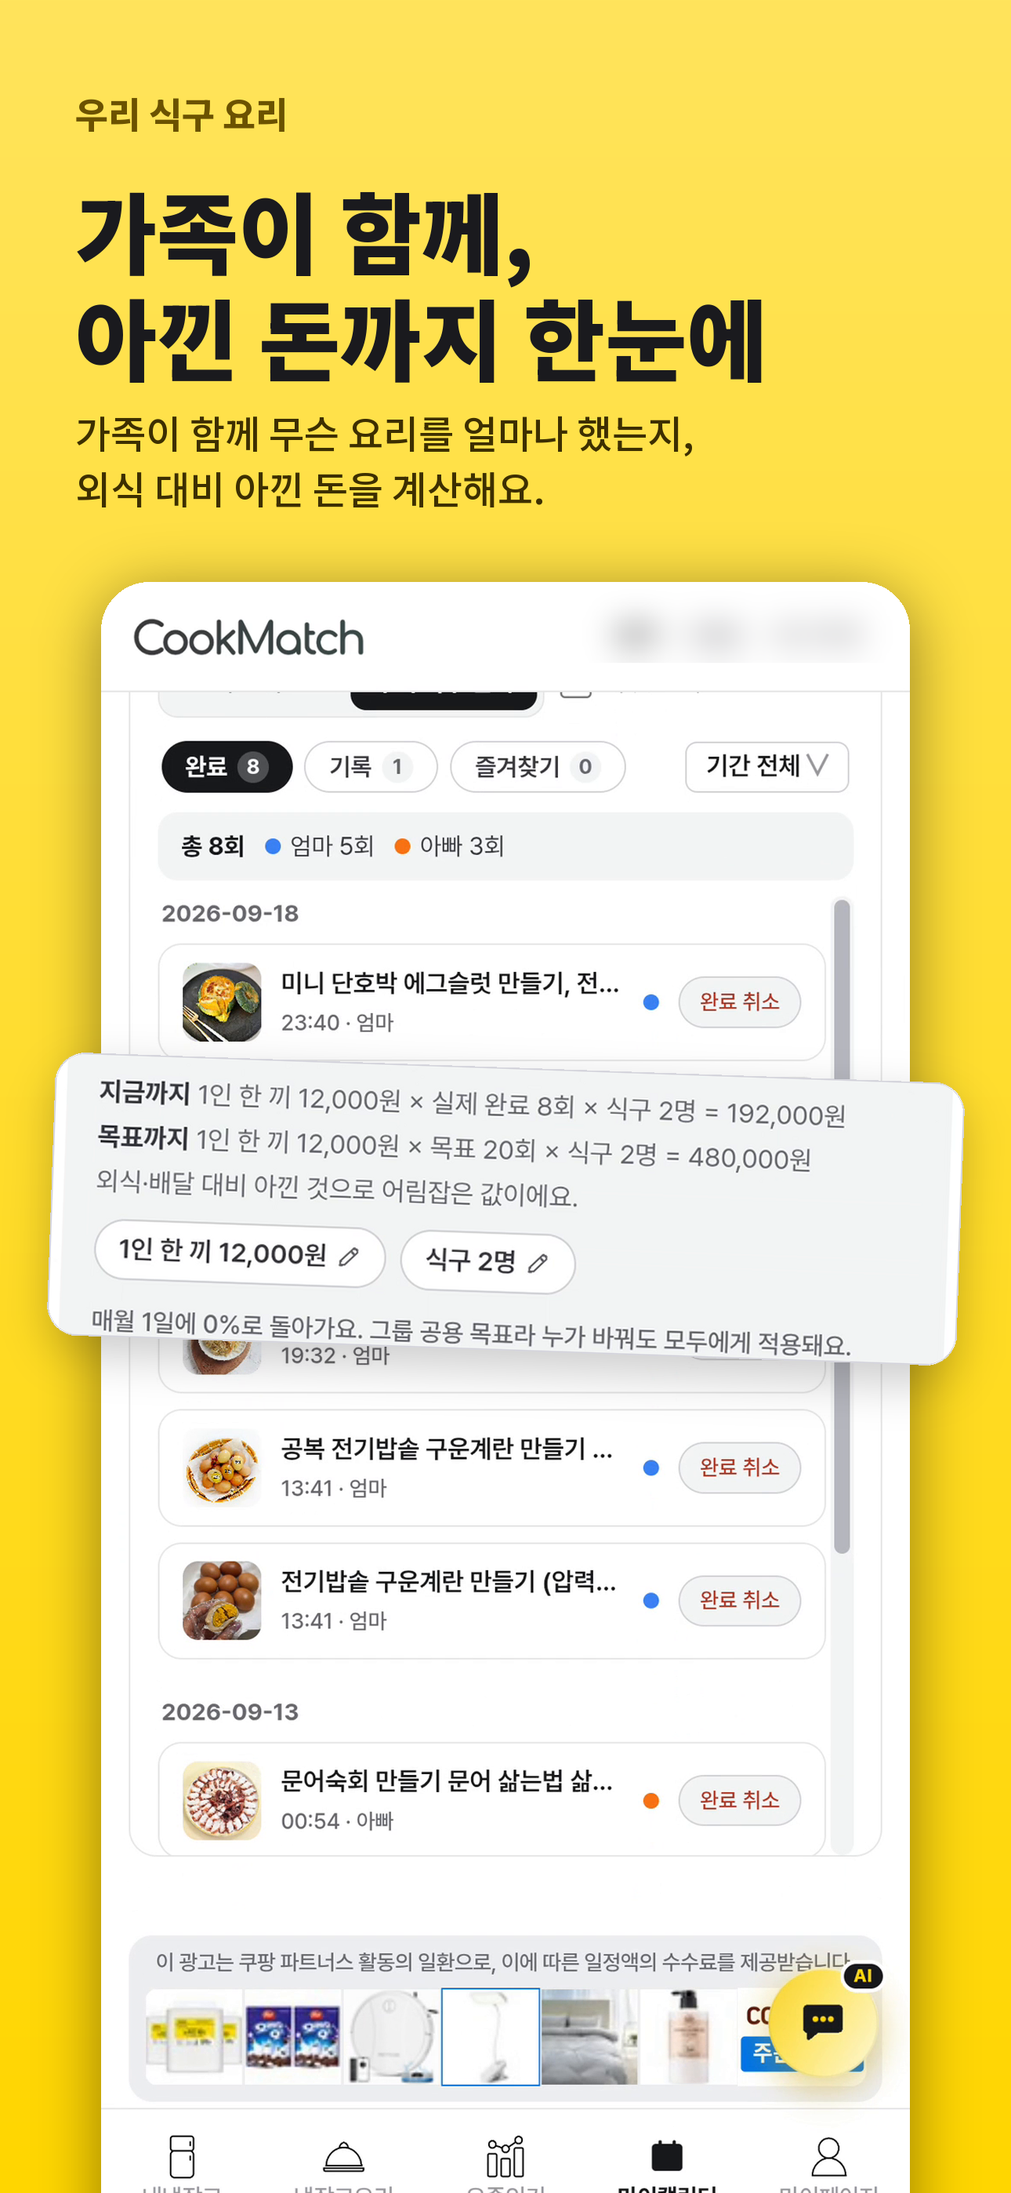
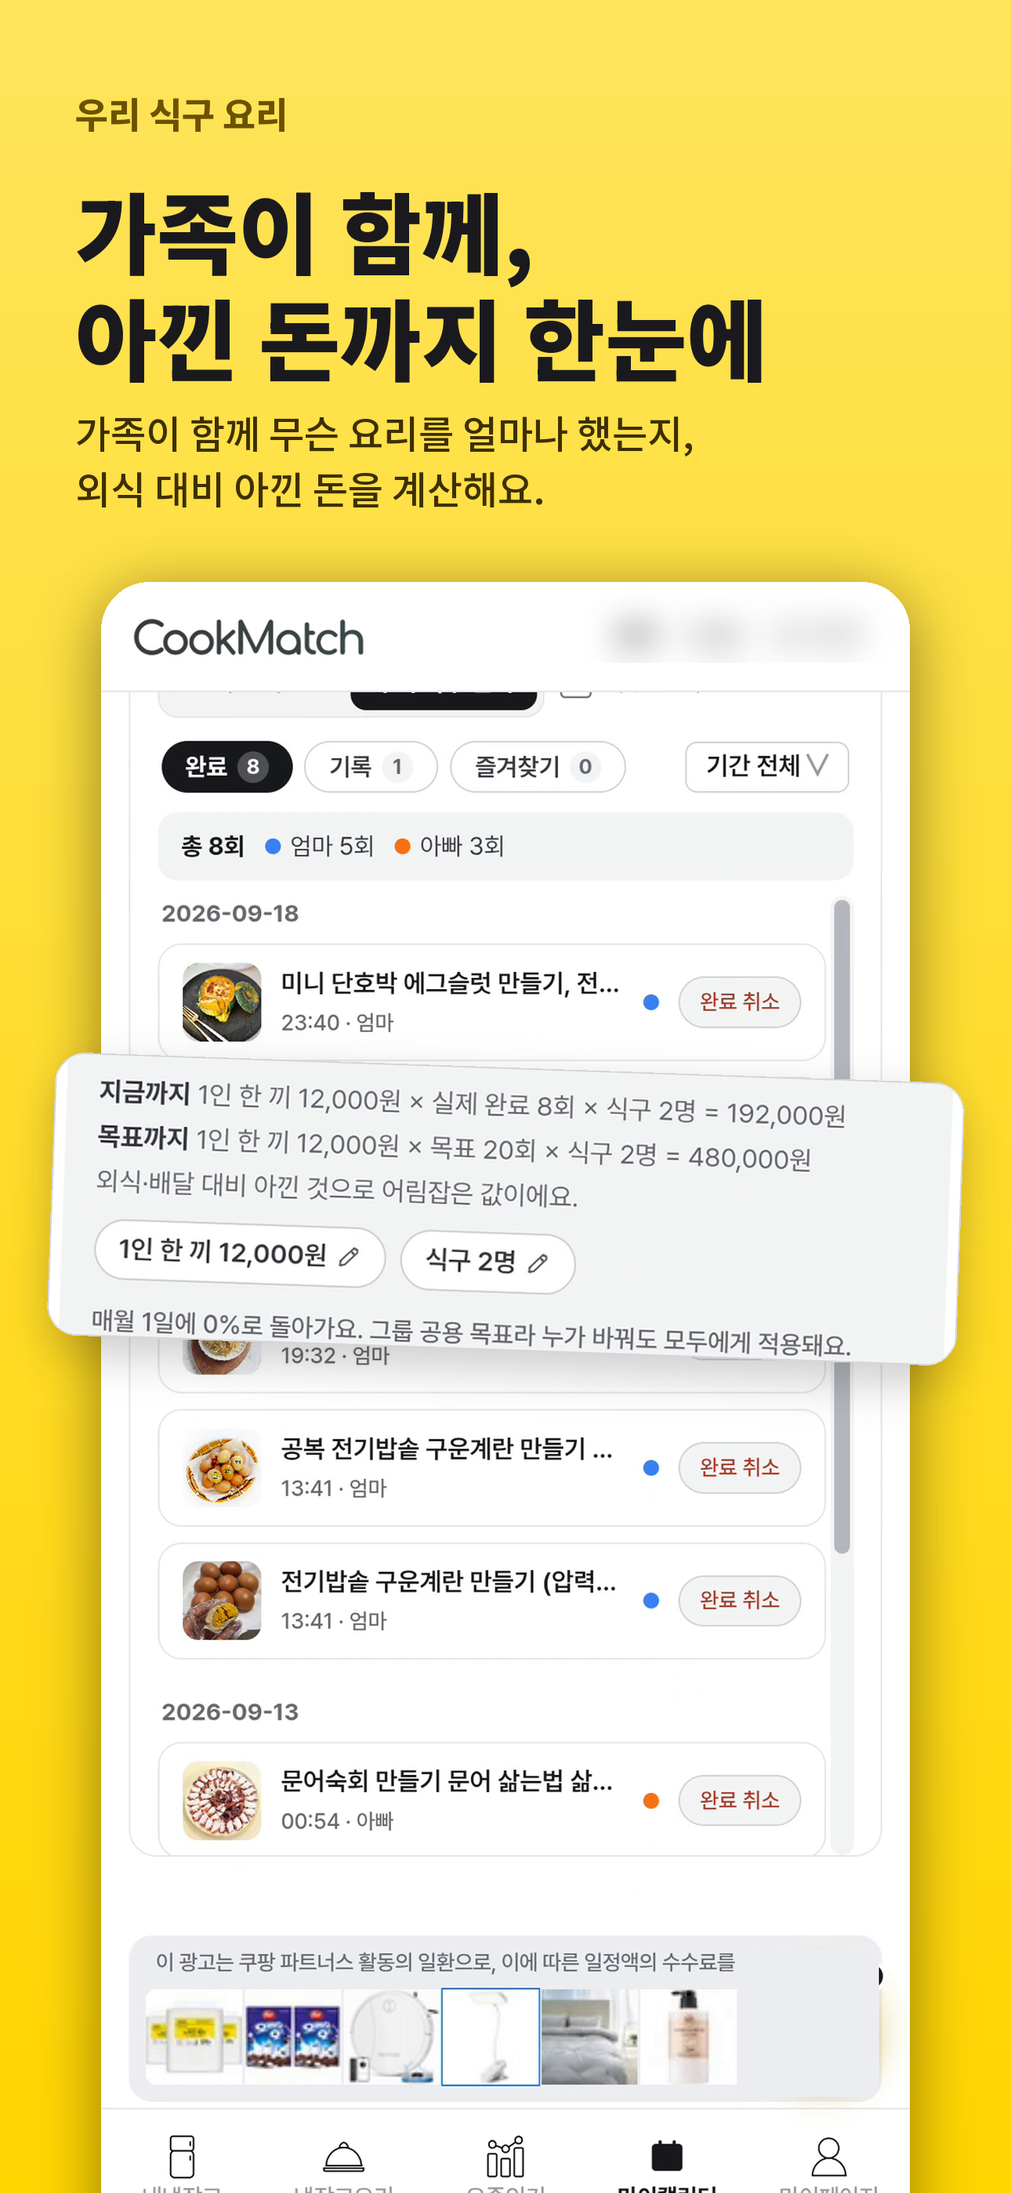
스토어 이미지 새 UI로 교체, 챗봇 답변 형식(말머리·굵게·줄바꿈), 쿡 코치 입구·키보드 높이, 쿡 픽 크레딧 하단

Changed region(s): [[0.7132, 0.8712, 0.8682, 0.9646]]

diff --git a/frontend/src/components/CookCoach.tsx b/frontend/src/components/CookCoach.tsx
@@ -1,3 +1,4 @@
+import ChatText from './ui/ChatText';
 import React from 'react';
 import Portal from './Portal';
 import VoiceInputButton from './ui/VoiceInputButton';
@@ -77,12 +78,12 @@ const CookCoach: React.FC<{
   const endRef = React.useRef<HTMLDivElement>(null);
 
   // 모바일 키보드가 뜨면 보이는 화면이 줄어든다 — 카드가 키보드 뒤로 잘리지 않게 실제 보이는 높이를 따라간다(쿡 픽과 같은 방식).
-  const [vv, setVv] = React.useState<{ keyboard: number } | null>(null);
+  const [vv, setVv] = React.useState<{ keyboard: number; height: number } | null>(null);
   React.useEffect(() => {
     if (!open) return;
     const v = window.visualViewport;
     if (!v) return;
-    const update = () => setVv({ keyboard: Math.max(0, window.innerHeight - v.height - v.offsetTop) });
+    const update = () => setVv({ keyboard: Math.max(0, window.innerHeight - v.height - v.offsetTop), height: v.height });
     update();
     v.addEventListener('resize', update);
     v.addEventListener('scroll', update);
@@ -91,6 +92,18 @@ const CookCoach: React.FC<{
   const keyboardOpen = !!vv && vv.keyboard > 60;
   // 카드가 화면 아래(하단 메뉴 자리)까지 내려온다 — 세로로 더 길게(2026-11-06 「GNB 영역을 살짝 가릴 정도로」). 열려 있는 동안은 아래 알약을 숨긴다.
   const cardBottom = keyboardOpen ? vv!.keyboard + 8 : 12;
+  // 높이를 **보이는 화면 높이**로 직접 계산한다(쿡 픽과 같은 방식, 2026-11-06 「키보드가 뜨면 쿡 픽처럼 세로 높이가 줄어야」).
+  // 윗변을 화면 위에 고정하고 아래만 키보드 위로 올렸더니, 키보드가 뜰 때 폰이 화면을 위로 밀어 올리면서 카드 윗부분이 화면 밖으로 잘렸다.
+  const cardHeight = vv
+    ? Math.min(Math.max(320, vv.height - cardBottom - 24), 760)
+    : 'min(calc(100dvh - 36px), 760px)';
+
+  // 레시피 창 위쪽의 「쿡 코치」 입구가 같은 카드를 연다(CookModeSheet 가 이벤트를 쏜다).
+  React.useEffect(() => {
+    const openFromSheet = () => setOpen(true);
+    window.addEventListener('cookmatch:open-coach', openFromSheet);
+    return () => window.removeEventListener('cookmatch:open-coach', openFromSheet);
+  }, []);
 
   // 다른 요리로 바뀌면 대화를 비운다(요리 한 건 전용이라 이어 갈 맥락이 없다).
   React.useEffect(() => {
@@ -169,11 +182,11 @@ const CookCoach: React.FC<{
           style={{
             position: 'fixed', left: 12, right: 12, margin: '0 auto', maxWidth: 420, zIndex: LAYER,
             // 거의 전체 높이(2026-11-06 「창이 너무 작다, 핸드폰으로 본다」) — 위·아래 여백만 남겨 뒤 화면이 딤으로 보이게 한다.
-            top: 'calc(env(safe-area-inset-top, 0px) + 10px)', maxHeight: 760,
+            height: cardHeight,
             bottom: keyboardOpen ? cardBottom : `calc(${cardBottom}px + env(safe-area-inset-bottom, 0px))`,
             display: 'flex', flexDirection: 'column', overflow: 'hidden',
             background: INK, color: '#FFFFFF', borderRadius: 22,
-            boxShadow: '0 18px 48px rgba(0,0,0,0.36)', transition: 'bottom 120ms ease-out',
+            boxShadow: '0 18px 48px rgba(0,0,0,0.36)', transition: 'bottom 120ms ease-out, height 120ms ease-out',
           }}
         >
           {/* 머리말 한 줄 — 제목은 쿡 픽·다른 제목과 같은 15px/700, 설명은 같은 줄 옆에 */}
@@ -247,7 +260,7 @@ const CookCoach: React.FC<{
                   background: m.role === 'user' ? '#FFFFFF' : SURFACE2,
                   color: m.role === 'user' ? INK : '#F1F1F4',
                 }}>
-                  {m.content}
+                  {m.role === 'assistant' ? <ChatText text={m.content} /> : m.content}
                 </div>
               </div>
             ))}
@@ -294,6 +307,15 @@ const CookCoach: React.FC<{
               </div>
             )}
             <UsageLine style={{ justifyContent: 'center' }} cost={cost} onDark />
+            {/* 대화는 메모리에만 있다 — 레시피 창을 닫거나 다른 요리로 넘어가면 지워진다(2026-11-06 「닫으면 지워진다는 안내를 넣어야」).
+                닫을 때 확인창을 따로 띄우지 않는 이유: 30초 넘게 보다 닫으면 이미 「레시피를 완료하셨나요?」가 뜨는데 팝업이 연달아 둘이 되고,
+                요리 한 건 즉석 질문이라 지워져도 손해가 작다. 대신 여기에 한 줄로 미리 알린다. */}
+            <div style={{
+              textAlign: 'center', fontSize: 11, lineHeight: 1.4, color: 'rgba(255,255,255,0.5)',
+              whiteSpace: 'nowrap', overflow: 'hidden', textOverflow: 'ellipsis', marginTop: -2,
+            }}>
+              레시피 창을 닫으면 이 대화는 지워져요
+            </div>
             <div style={{ display: 'flex', alignItems: 'center', gap: 8 }}>
               <input
                 value={input}

diff --git a/frontend/src/components/RecipeChatWidget.tsx b/frontend/src/components/RecipeChatWidget.tsx
@@ -6,6 +6,7 @@ import { UsageLine, useUsage } from './UsageMeter';
 import BackButton from './ui/BackButton';
 import KebabMenu from './ui/KebabMenu';
 import VoiceInputButton from './ui/VoiceInputButton';
+import ChatText from './ui/ChatText';
 import { UtensilsIcon } from './ui/Icons';
 import { useLocation, useNavigate } from 'react-router-dom';
 import StepLoading from './StepLoading';
@@ -567,8 +568,12 @@ const RecipeChatWidget: React.FC = () => {
                     fontSize: 10, fontWeight: 800, letterSpacing: '.04em', padding: '1.5px 6px',
                     borderRadius: 6, background: '#1A1A1E', color: '#FFD600', flexShrink: 0,
                   }}>AI</span>
-                  {/* 기능을 쓰려고 연 시점이 남은 양을 알려주기 가장 좋은 때다. 제목과 같은 줄에, 한 줄로 끝나는 것만. */}
-                  <UsageLine compact style={{ marginLeft: 4, whiteSpace: 'nowrap', minWidth: 0 }} />
+                  {/* 쿡 코치와 같은 짜임(2026-11-06 「쿡 코치처럼 상단엔 이 AI 가 뭔지 짧게 한 줄, 크레딧은 하단」): 제목 옆에 소개 한 줄,
+                      잔여 크레딧·오늘 남은 양·이번 질문 값은 맨 아래 보내기 줄 위로 내렸다. */}
+                  <span style={{
+                    fontSize: 11.5, color: 'var(--ink-500)', minWidth: 0,
+                    whiteSpace: 'nowrap', overflow: 'hidden', textOverflow: 'ellipsis',
+                  }}>레시피를 골라 드려요</span>
                 </>
               )}
             </div>
@@ -706,6 +711,8 @@ const RecipeChatWidget: React.FC = () => {
                           )}
                           <span dangerouslySetInnerHTML={{ __html: msg.content }} />
                         </>
+                      ) : msg.role === 'assistant' ? (
+                        <ChatText text={msg.content} />
                       ) : (
                         msg.content
                       )}
@@ -855,7 +862,7 @@ const RecipeChatWidget: React.FC = () => {
                 <div style={{ fontSize: 11, color: 'var(--ink-500)', marginTop: 6, textAlign: 'center' }}>
                   이 대화는 여기까지예요
                 </div>
-                <UsageLine style={{ justifyContent: 'center', marginTop: 4 }} cost={chatCost} costOnly />
+                <UsageLine style={{ justifyContent: 'center', marginTop: 4 }} cost={chatCost} />
               </div>
             ) : (
             <>
@@ -874,7 +881,7 @@ const RecipeChatWidget: React.FC = () => {
                   : pageKind === 'popular' ? '보고 있는 구역을 참고해 전체 레시피에서 골라요'
                   : '내 냉장고 재료를 기준으로 전체 레시피에서 골라요'}
               </div>
-              <UsageLine cost={chatCost} costOnly />
+              <UsageLine style={{ justifyContent: 'center' }} cost={chatCost} />
             </div>
             <form
               onSubmit={handleSubmit}

diff --git a/frontend/src/components/ui/ChatText.tsx b/frontend/src/components/ui/ChatText.tsx
@@ -1,0 +1,63 @@
+import * as React from 'react';
+
+/**
+ * 챗봇 답변 글(쿡 픽·쿡 코치)을 **말머리·굵은 글씨·줄바꿈**으로 그린다(2026-11-06 「줄글로 줄줄 말하지 말고 말머리·# ** ·줄바꿈을 알아서 써 달라」).
+ *
+ * 마크다운 전체를 읽는 라이브러리가 아니라 **필요한 네 가지만** 직접 읽는다 — LLM 이 쓴 글을 HTML 로 넣지 않으므로(`dangerouslySetInnerHTML`
+ * 없음) 글자가 태그로 해석될 길이 없다.
+ *   - 빈 줄            → 문단 사이 틈
+ *   - `# 제목` `## 제목`   → 굵은 한 줄 제목
+ *   - `- 항목` `• 항목` `* 항목`  → 말머리(•) 목록
+ *   - `**굵게**`       → 굵은 글씨
+ * 그 밖의 줄은 그대로 한 줄. 답을 한 글자씩 내보내는 중이라 `**` 가 닫히기 전에도 그려지는데, 닫히지 않은 `**` 는 지워서 별표가 깜빡이지 않게 한다.
+ */
+const BULLET = /^\s*(?:[-•·]|\*(?!\*))\s+(.*)$/;
+const HEADING = /^\s*#{1,3}\s+(.*)$/;
+
+function inline(text: string, keyPrefix: string): React.ReactNode[] {
+  const parts = text.split(/(\*\*[^*]+\*\*)/g);
+  return parts
+    .map((part, i) => {
+      if (/^\*\*[^*]+\*\*$/.test(part)) {
+        return <b key={`${keyPrefix}-${i}`} style={{ fontWeight: 700 }}>{part.slice(2, -2)}</b>;
+      }
+      // 닫히지 않은 ** (아직 쓰는 중)는 보이지 않게
+      return part.replace(/\*\*/g, '');
+    })
+    .filter(p => p !== '');
+}
+
+const ChatText: React.FC<{ text: string }> = ({ text }) => {
+  const lines = String(text || '').replace(/\r\n/g, '\n').split('\n');
+  const out: React.ReactNode[] = [];
+  let lastWasGap = true;   // 맨 앞의 빈 줄은 그리지 않는다
+  lines.forEach((raw, i) => {
+    const line = raw.replace(/\s+$/, '');
+    if (!line.trim()) {
+      // 연속 빈 줄은 한 번만
+      if (!lastWasGap) out.push(<div key={`g${i}`} style={{ height: 6 }} />);
+      lastWasGap = true;
+      return;
+    }
+    lastWasGap = false;
+    const h = HEADING.exec(line);
+    if (h) {
+      out.push(<div key={`h${i}`} style={{ fontWeight: 700, margin: '2px 0' }}>{inline(h[1], `h${i}`)}</div>);
+      return;
+    }
+    const b = BULLET.exec(line);
+    if (b) {
+      out.push(
+        <div key={`b${i}`} style={{ display: 'flex', gap: 6, paddingLeft: 2 }}>
+          <span aria-hidden style={{ flexShrink: 0 }}>•</span>
+          <span style={{ minWidth: 0 }}>{inline(b[1], `b${i}`)}</span>
+        </div>,
+      );
+      return;
+    }
+    out.push(<div key={`p${i}`}>{inline(line, `p${i}`)}</div>);
+  });
+  return <>{out}</>;
+};
+
+export default ChatText;

diff --git a/frontend/src/components/CookModeSheet.tsx b/frontend/src/components/CookModeSheet.tsx
@@ -3,6 +3,7 @@ import Sheet from './ui/Sheet';
 import Dialog from './ui/Dialog';
 import PlanThisDay from './PlanThisDay';
 import CookCoach from './CookCoach';
+import { ChefHatIcon } from './ui/Icons';
 import Toast from './Toast';
 import { useAuth } from '../context/AuthContext';
 import {
@@ -564,6 +565,24 @@ const CookModeSheet: React.FC<Props> = ({
             </svg>
           </button>
         </div>
+      )}
+      {/* 쿡 코치 입구 — 우하단 알약만으로는 「이 요리를 도와주는 AI」라는 느낌이 안 난다는 지적(2026-11-06)이라 창 위쪽에 눈에 띄게
+          하나 더 둔다. 같은 카드를 여는 두 번째 입구다(CookCoach 가 이 이벤트를 듣는다). */}
+      {!loading && data && recipeId != null && (
+        <button
+          type="button"
+          className="ai-fab-pill k"
+          onClick={() => window.dispatchEvent(new Event('cookmatch:open-coach'))}
+          style={{ width: '100%', justifyContent: 'center', gap: 8, marginBottom: 14, fontSize: 14, fontWeight: 700 }}
+        >
+          <ChefHatIcon size={18} />
+          <span>쿡 코치</span>
+          <span className="ai-tag" style={{
+            fontSize: 10, fontWeight: 800, letterSpacing: '.04em', padding: '1.5px 6px', borderRadius: 6,
+            background: 'rgba(255,255,255,0.16)', color: '#FFFFFF', flexShrink: 0,
+          }}>AI</span>
+          <span style={{ fontWeight: 500, fontSize: 13, color: 'rgba(255,255,255,0.78)' }}>이 요리, 궁금한 걸 물어보세요</span>
+        </button>
       )}
       {loading && (
         <div style={{ padding: '28px 0', textAlign: 'center', color: 'var(--ink-500)', fontSize: 14 }}>

diff --git a/store/make_store_assets.py b/store/make_store_assets.py
@@ -276,21 +276,22 @@ def make_feature_graphic(icon):
 # store/sources/ 는 사용자가 직접 찍어 준 실제 앱 캡처(2026-09-18).
 V = "my-video/public/"
 SOURCES = {
-    "diet": ("store/sources/diet_ai_plan.png", None, 185),
-    "chat": (V + "reel6_chatbot_demo.mp4", 29.2, 180),
+    # 2026-11-06 새 UI 로 다시 찍음 — 개발 서버의 실제 앱(비회원, 배포 서버 레시피·실제 AI 호출)을 휴대폰 크기(430x932, 3배 = 1290x2796)로 직접 캡처
+    "diet": ("store/sources/diet_ai_plan.png", None, 0),
+    "chat": ("store/sources/chat_demo.png", None, 0),
     "photo": (V + "reel1_loading_freeze.png", None, 0),
     # (INSETS crop 의 y 는 웹뷰 좌표에 상태바 132px 를 더한 화면 캡처 좌표다)
     # 2026-10-09 화면 개편 뒤 새로 찍음 — 안드로이드 에뮬레이터(1080x2400)에서 실제 앱(비회원 + 배포 서버
     # 레시피)을 그대로 캡처. 위 132px 는 안드로이드 상태바. 아래 INSETS 의 같은 이름 항목도 같은 캡처에서 자른다.
-    "match": ("store/sources/match_main.png", None, 132),
-    "substitute": ("store/sources/substitute_main.png", None, 132),
-    "expiry": ("store/sources/match_main.png", None, 132),  # 배경은 목록 그대로(임박 필터 적용 뒤 화면은 썸네일이 안 뜬 카드가 섞였다)
-    "cook": (V + "reel3_reading_freeze.png", None, 180),
+    "match": ("store/sources/match_main.png", None, 0),
+    "substitute": ("store/sources/substitute_main.png", None, 0),
+    "expiry": ("store/sources/match_main.png", None, 0),  # 배경은 목록 그대로(임박 필터 적용 뒤 화면은 썸네일이 안 뜬 카드가 섞였다)
+    "cook": ("store/sources/cook_main.png", None, 0),
     # 2026-10-12: 로그인한 가족 계정(엄마) 새 UI 녹화에서 뽑음 — 헤더의 닉네임은 기본 블러(NO_BLUR 아님)
     "family": ("store/sources/family_main.png", None, 0),
 }
 
-NO_BLUR = {"match", "expiry"}  # substitute 는 로그인 상태(`엄마`)로 찍혀 헤더 블러
+NO_BLUR = {"diet", "chat", "match", "expiry", "substitute", "cook"}  # substitute 는 로그인 상태(`엄마`)로 찍혀 헤더 블러
 
 # 폰 화면 위에 겹쳐 올리는 보조 이미지(기울인 작은 카드 / 확대 콜아웃).
 #   crop: 원본 픽셀 좌표(상태바 자르기 전)  w: 캔버스 폭 대비 너비  angle: 반시계 방향 기울기(도)
@@ -310,7 +311,7 @@ INSETS = {
     "match": dict(src="store/sources/match_filter_popup.png", crop=(94, 582, 986, 1887),
                   w=0.47, angle=-6, cx=0.72, cy=0.40, radius=0.04),
     # "대체 가능 · 당근→양파"가 있는 레시피 카드를 잘라 크게
-    "substitute": dict(src="store/sources/substitute_main.png", crop=(15, 1270, 1065, 1560),
+    "substitute": dict(src="store/sources/substitute_main.png", crop=(30, 1520, 1260, 1930),
                        w=0.92, angle=-2, cx=0.5, cy=0.78, radius=0.03),
     # 임박 재료 설정 팝업
     "expiry": dict(src="store/sources/expiry_filter_popup.png", crop=(94, 582, 986, 1887),
@@ -326,7 +327,7 @@ INSETS = {
 SLIDES = [
     dict(key="diet", band="k", ai=True, eyebrow="식단 짜기",
          headline="말 한마디로\n일주일 식단 완성", sub="냉장고 재료로 먼저 채워서, 장보기는 최소한만", focus=0.0),
-    dict(key="chat", band="k", ai=True, eyebrow="요리 챗봇",
+    dict(key="chat", band="k", ai=True, eyebrow="쿡 픽",
          headline="검색 말고,\n그냥 물어보세요", sub="내 재료·취향까지 반영해서 골라드려요", focus=0.0),
     dict(key="photo", band="k", ai=True, eyebrow="사진 인식",
          headline="사진 한 장이면\n재료 등록 끝", sub="영수증이든 음식 사진이든, 재료와 유통기한까지", focus=0.0),

diff --git a/backend/recipe_coach.py b/backend/recipe_coach.py
@@ -66,7 +66,7 @@ def _build_prompt(recipe, messages, fridge):
 3. 인분·배수 질문이면 위 재료 분량을 곱해서 **구체적인 숫자**로 답해(예: 「돼지고기 200g → 5배면 1kg」). 양념과 물은 배수만큼 그대로 늘리면 짜거나 질척해지기 쉬우니 「처음엔 70~80%만 넣고 맛을 보며 늘리세요」처럼 알려 줘. 조리 시간은 배수에 비례하지 않는다고도 말해 줘. 자료에 분량이 없는 재료는 지어내지 말고 모른다고 해.
 4. 대체 재료는 냉장고에 있는 것을 우선 권하고, 맛·식감이 어떻게 달라지는지, 넣는 시점이 바뀌는지 짧게 알려 줘.
 5. 자료에 없는 단계나 수치를 확신하듯 지어내지 마. 확실하지 않으면 「대략」「추정」이라고 밝혀.
-6. 말투는 친절한 존댓말, **2~4문장**, 마크다운·번호 목록·이모지 쓰지 마. 숫자는 구체적으로.
+6. 말투는 친절한 존댓말, **2~4문장**, 숫자는 구체적으로. **글 모양:** 줄글로 잇지 말고 짧은 문단을 줄바꿈(JSON 안에서는 \\n)으로 나눠라 — 한 문단은 한두 문장, 문단 사이는 빈 줄(\\n\\n). 방법·선택지가 둘 이상이면 줄 앞에 '- ' 말머리로 한 줄씩. 핵심 재료·분량·시간은 **굵게**(별표 두 개). 제목·표·이모지는 쓰지 마라(짧은 답이다).
 7. 질문이 모호하면(예: 「재료가 없는데 대체해도 돼요?」 — 어떤 재료인지 모를 때) 짐작해서 답하지 말고 「어떤 재료가 없으세요?」처럼 **한 문장으로 되물어.**
 
 [지금까지 대화]

diff --git a/RELEASE_NOTES.md b/RELEASE_NOTES.md
@@ -14,6 +14,7 @@
 ## 다음 버전 — 쌓는 중 (iOS 1.0.11 · 빌드 18 / Android 1.0.14 · versionCode 15)
 
 **마이페이지 개편 (2026-11-06, 웹 코드라 앱은 새 빌드 필요):**
+- (2026-11-06 22차) 쿡 픽·쿡 코치 답변을 말머리·굵은 글씨·줄바꿈으로 · 쿡 코치 입구를 레시피 창 위쪽에도 추가 · 쿡 픽 크레딧 표시를 하단으로(쿡 코치와 같게) · 쿡 코치 키보드가 뜨면 카드 높이가 줄어듦 · 레시피 창을 닫으면 쿡 코치 대화가 지워진다는 안내 · **스토어 스크린샷·피처 그래픽 새 UI 로 교체**
 - (2026-11-06 21차) 쿡 픽·쿡 코치 창을 거의 전체 높이로 키움 · 접기 버튼 ⌄ · 쿡 코치 뒤 화면 딤을 전체로 진하게 · 쿡 코치 입력칸 안내 문구가 안 보이던 것 수정 · **홈 화면 위젯 글자를 「쿡 픽」·「식단 짜기」로**(새 빌드 필요) · 개인정보처리방침 AI 대화 기록 행을 실제와 맞춤
 - (2026-11-06 20차) 쿡 픽 답 맨 아래에 「근거」(후보 몇 개를 살펴보고 몇 개를 골랐는지 + 찾은 말·겹친 냉장고 재료·화면 조건) 접이식 상자, 입력창 위에 한 줄 설명
 - (2026-11-06 19차) AI 표시를 「✦AI」로(별 + AI 한 덩어리) · 사진/영수증으로 재료 담기가 브랜드·제품명·「저염」 같은 수식어를 빼고 「버터」「라면」처럼 큰 품목 이름으로 담음(서버 반영)
